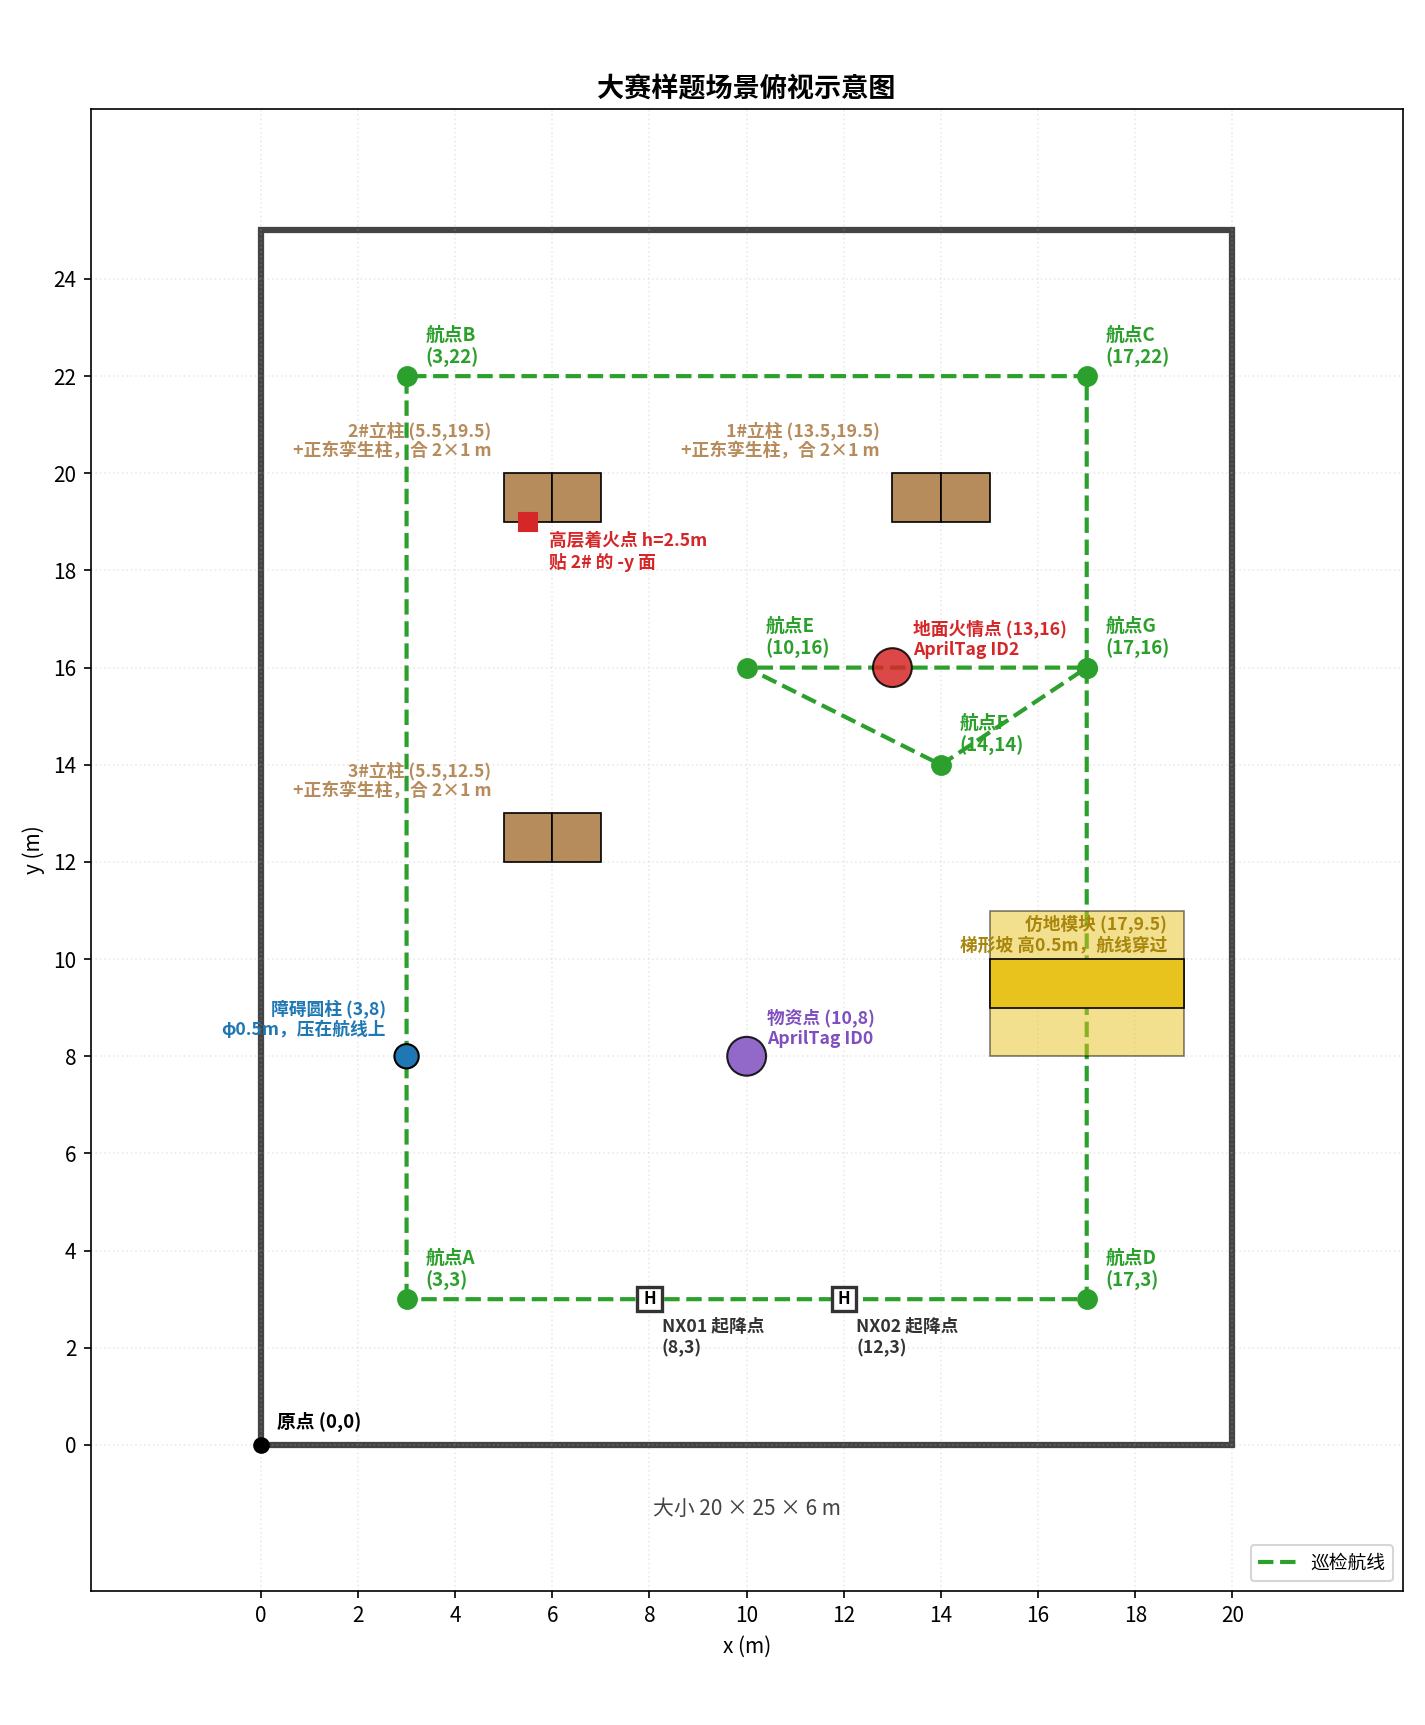
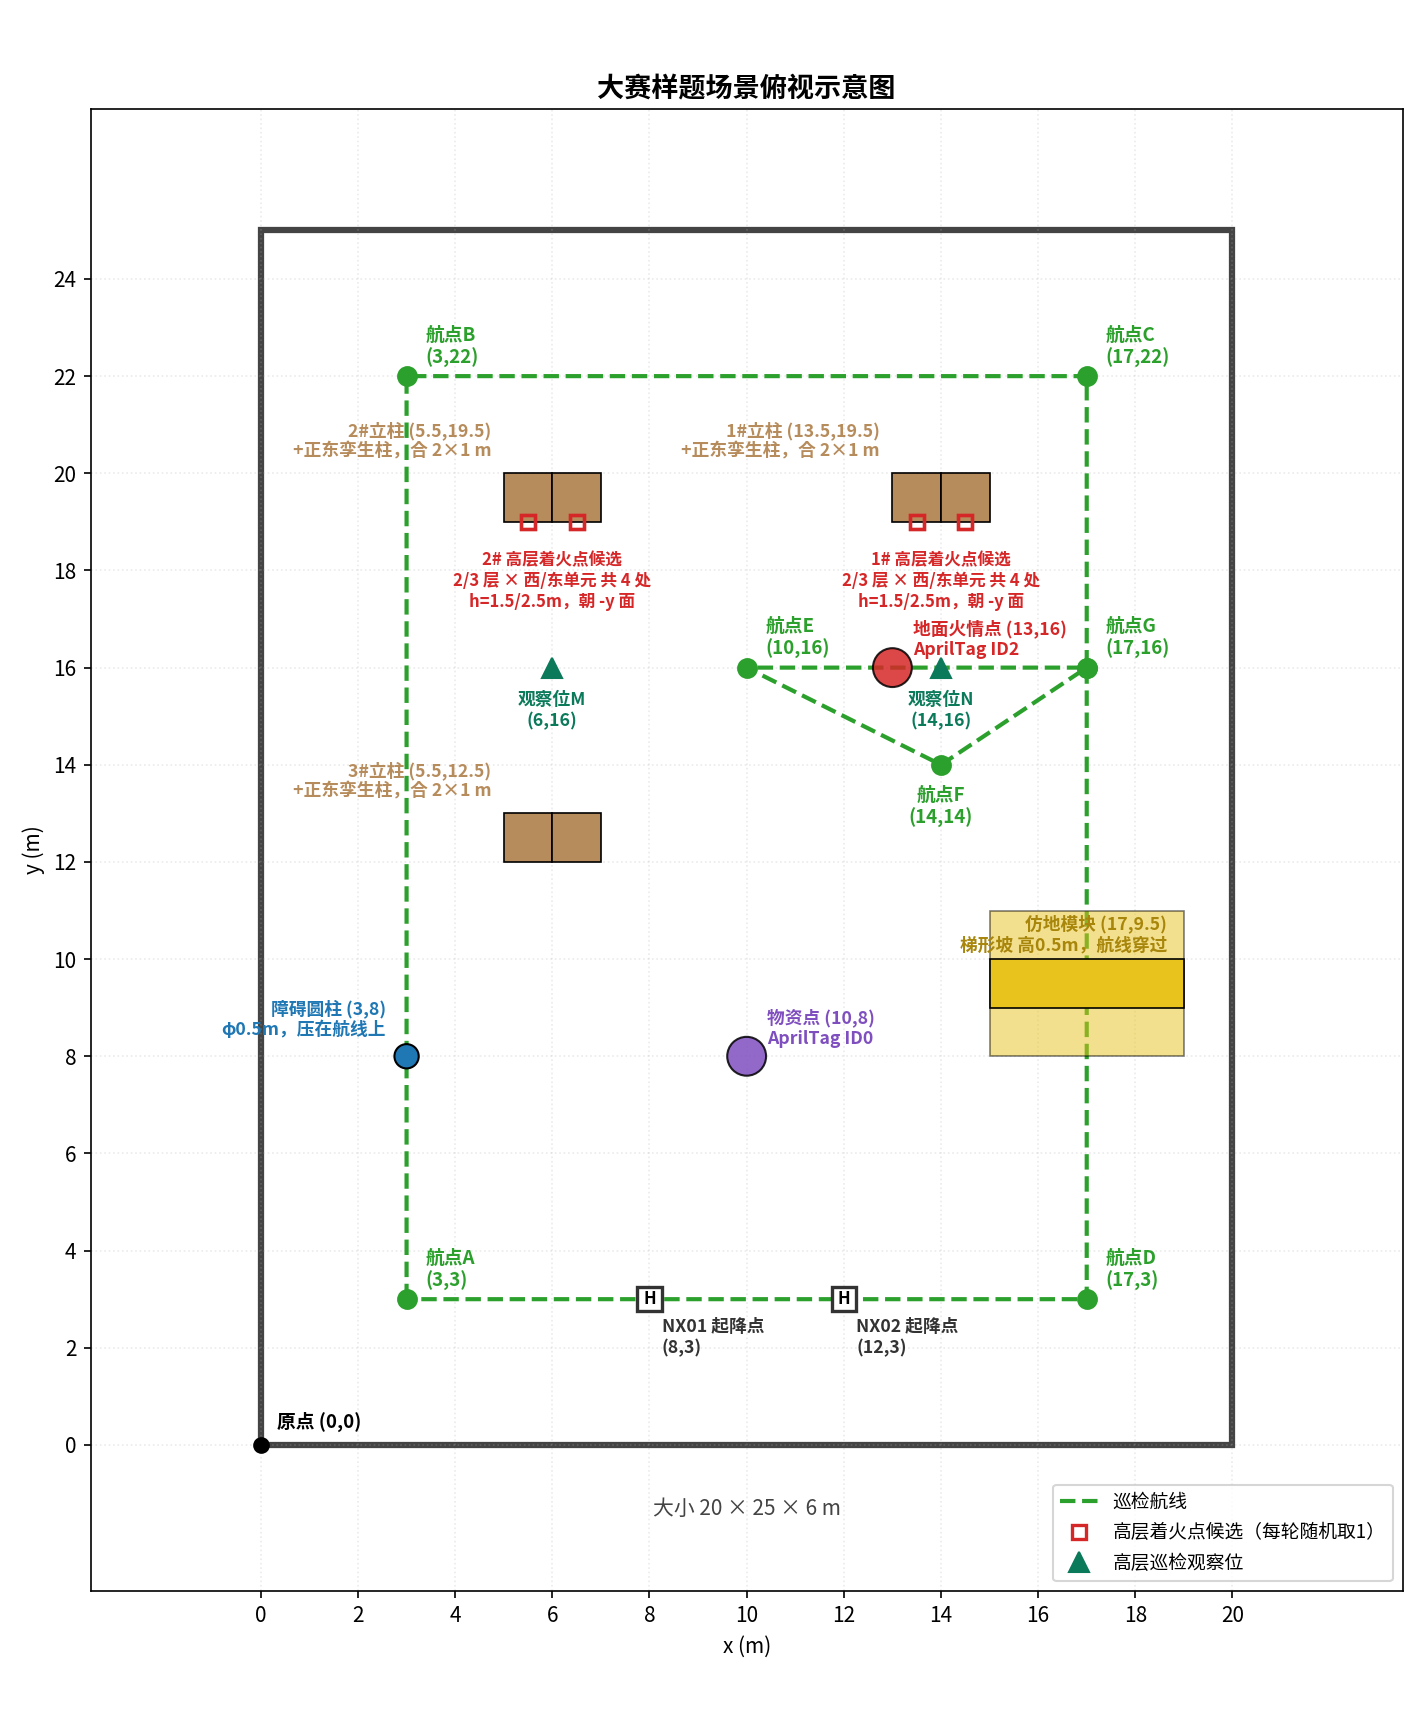
综合任务三条复验通过；场景示意图补上观察位和随机火情候选
复验（./一键仿真/run.sh 综合，两机退出码 0）：
  1. 任务机发射前对正楼面——**确认这个 bug 是真的**：到达发射点时朝向 178.9°，
     离楼面法线 +90° 差 89°，标识根本不在 40° 半视场里；face_yaw 转到 93.3° 后
     两轮收敛，横向 +0.41 -> +0.03 m。
  2. 高层轮返航过 D 点解散后先去物资点降落释放器材，再回起降点。
  3. 最后一轮侦察机跳过 A 点：第 1/2 轮"已到 A 点，悬停待命"，第 3 轮直接
     "回起飞点 (7.99, 3.09) 降落"。
裁判出题时机再次正确：三次计数全落在自己起降点，高层轮中途在物资点的两次降落
一次没误计。

场景示意图（scripts/画样题场景示意图.py + 样题场景示意图.png）补了两类标注：
  · 高层巡检观察位 M(6,16) / N(14,16)——从 highrise.py 的 POINT_M/POINT_N 解析，
    不在画图脚本里另写一份坐标，否则迟早跟飞行代码对不上；
  · 高层着火点的 8 个随机候选窗口——从 yaml 的 fire_apriltag_random + 立柱坐标 +
    楼层线间距算出来，跟 scenario_reset_node、世界生成脚本同一份数据。
顺手修了两处标注重叠（观察位 N 被地面火情点压住、航点 F 压在航线上）。

diff --git a/scripts/画样题场景示意图.py b/scripts/画样题场景示意图.py
@@ -32,12 +32,37 @@ C_ROUTE = "#2ca02c"
 C_PAD = "#333333"
 C_FIRE = "#d62728"
 C_SUPPLY = "#7f4fbf"
+C_OBS = "#0b7a5a"      # 高层巡检观察位 M/N
+
+
+
+def read_observation_points(highrise_path):
+    """从 highrise.py 解析出观察位 M/N。
+
+    不在这儿另写一份坐标：权威值是 highrise.py 的 POINT_M / POINT_N
+    （INSPECT_STATIONS 里引用），写死在图里迟早跟飞行代码对不上。
+    解析不到就返回空，图照画，只是少两个标注。
+    """
+    try:
+        import ast
+        tree = ast.parse(open(highrise_path, encoding="utf-8").read())
+        out = {}
+        for n in tree.body:
+            if isinstance(n, ast.Assign) and isinstance(n.targets[0], ast.Name):
+                if n.targets[0].id in ("POINT_M", "POINT_N"):
+                    out[n.targets[0].id[-1]] = ast.literal_eval(n.value)
+        return out
+    except Exception as exc:
+        print(f"[画样题场景示意图] 读不到观察位（{exc}），图里不标 M/N")
+        return {}
 
 
 def main():
     ap = argparse.ArgumentParser(description=__doc__)
     ap.add_argument("--layout", required=True)
     ap.add_argument("--out", required=True)
+    ap.add_argument("--highrise", default="contestant_template/highrise.py",
+                    help="解析观察位 M/N 用，见 read_observation_points")
     args = ap.parse_args()
     L = yaml.safe_load(open(args.layout, encoding="utf-8"))
 
@@ -67,9 +92,12 @@ def main():
         if key in _seen:
             continue
         _seen.add(key)
+        # F 是虚拟点、夹在 E->F->G 两条线中间，标注往下排，别压在航线上
+        dx, dy, va = (0, -10, "top") if w["id"] == "F" else (9, 6, "baseline")
         ax.annotate(f"航点{w['id']}\n({w['x']:.0f},{w['y']:.0f})",
-                    (w["x"], w["y"]), textcoords="offset points", xytext=(9, 6),
-                    fontsize=9, color=C_ROUTE, fontweight="bold")
+                    (w["x"], w["y"]), textcoords="offset points", xytext=(dx, dy),
+                    fontsize=9, color=C_ROUTE, fontweight="bold",
+                    ha="center" if w["id"] == "F" else "left", va=va)
 
     # ---- 立柱（含正东孪生柱）----
     S = L["pillar_size"]
@@ -86,17 +114,48 @@ def main():
                     xytext=(-6, 8), fontsize=8.5, color=C_PILLAR,
                     fontweight="bold", ha="right")
 
-    # ---- 高层着火点（贴在某根柱子的某个面）----
+    # ---- 高层着火点：8 个随机候选窗口 ----
+    # 2026-09-30 起高层火情是**随机**的（layout 的 fire_apriltag_random）：
+    # 1#/2# 两栋楼 x 二楼/三楼 x 西/东单元，共 8 个候选，每轮抽一个。
+    # 候选位置是算出来的，不是写死的——跟 scenario_reset_node 和世界生成脚本
+    # 用的是同一份 yaml 和同一套几何，不会各说各话。
+    fr = L.get("fire_apriltag_random") or {}
     fam = L["fire_apriltag_marker"]
-    fp = next(q for q in L["pillars"] if q["id"] == fam["pillar_id"])
     d = fam["mount_standoff_m"]
-    off = {"-y": (0, -d), "+y": (0, d), "-x": (-d, 0), "+x": (d, 0)}[fam["face"].lower()]
-    fx, fy = fp["x"] + off[0], fp["y"] + off[1]
-    ax.plot(fx, fy, marker="s", ms=9, color=C_FIRE, zorder=7)
-    ax.annotate(f"高层着火点 h={L['fire_apriltag_height_m']}m\n"
-                f"贴 {fam['pillar_id'].replace('pillar_','')}# 的 {fam['face']} 面",
-                (fx, fy), textcoords="offset points", xytext=(10, -22),
-                fontsize=8.5, color=C_FIRE, fontweight="bold")
+    if fr.get("enabled"):
+        sp = float((L.get("floor_rings") or {}).get("spacing_m", 1.0))
+        cands = []
+        for b_id in fr.get("buildings", []):
+            bp = next(q for q in L["pillars"] if q["id"] == b_id)
+            for floor in fr.get("floors", []):
+                for unit in (0, 1):
+                    cands.append((bp["x"] + (S if unit else 0.0), bp["y"] - d,
+                                  (floor - 1) * sp + sp / 2.0,
+                                  b_id.replace("pillar_", ""), floor,
+                                  "西" if unit == 0 else "东"))
+        for cx_, cy_, cz_, bid, fl, un in cands:
+            ax.plot(cx_, cy_, marker="s", ms=7, mfc="none", mec=C_FIRE, mew=1.6, zorder=7)
+        # 标注挂在每栋楼下方一次，别每个候选都写一行糊成一团
+        for b_id in fr.get("buildings", []):
+            bp = next(q for q in L["pillars"] if q["id"] == b_id)
+            ax.annotate(f"{b_id.replace('pillar_','')}# 高层着火点候选\n"
+                        f"2/3 层 × 西/东单元 共 4 处\n"
+                        f"h={'/'.join(str((f-1)*sp+sp/2) for f in fr.get('floors', []))}m，"
+                        f"朝 {fam['face']} 面",
+                        (bp["x"] + S / 2, bp["y"] - d), textcoords="offset points",
+                        xytext=(0, -14), fontsize=8, color=C_FIRE,
+                        fontweight="bold", ha="center", va="top")
+        ax.plot([], [], marker="s", ms=7, mfc="none", mec=C_FIRE, mew=1.6,
+                ls="none", label="高层着火点候选（每轮随机取1）")
+    else:
+        fp = next(q for q in L["pillars"] if q["id"] == fam["pillar_id"])
+        off = {"-y": (0, -d), "+y": (0, d), "-x": (-d, 0), "+x": (d, 0)}[fam["face"].lower()]
+        fx, fy = fp["x"] + off[0], fp["y"] + off[1]
+        ax.plot(fx, fy, marker="s", ms=9, color=C_FIRE, zorder=7)
+        ax.annotate(f"高层着火点 h={L['fire_apriltag_height_m']}m\n"
+                    f"贴 {fam['pillar_id'].replace('pillar_','')}# 的 {fam['face']} 面",
+                    (fx, fy), textcoords="offset points", xytext=(10, -22),
+                    fontsize=8.5, color=C_FIRE, fontweight="bold")
 
     # ---- 障碍圆柱 ----
     c = L["obstacle_cylinder"]
@@ -127,6 +186,16 @@ def main():
         ax.annotate(f"{label} ({g['x']:.0f},{g['y']:.0f})\nAprilTag ID{g['apriltag_id']}",
                     (g["x"], g["y"]), textcoords="offset points", xytext=(10, 6),
                     fontsize=8.5, color=color, fontweight="bold")
+
+    # ---- 高层巡检观察位 M / N ----
+    for name, (ox, oy) in read_observation_points(args.highrise).items():
+        ax.plot(ox, oy, marker="^", ms=10, color=C_OBS, zorder=6)
+        # y=16 这条线上挤着 E、G、地面火情点，观察位标注一律往下排，别横着放
+        ax.annotate(f"观察位{name}\n({ox:.0f},{oy:.0f})",
+                    (ox, oy), textcoords="offset points", xytext=(0, -11),
+                    fontsize=8.5, color=C_OBS, fontweight="bold",
+                    ha="center", va="top")
+    ax.plot([], [], marker="^", ms=10, color=C_OBS, ls="none", label="高层巡检观察位")
 
     # ---- 起降点 ----
     for pad in L["takeoff_landing_pads"]:
